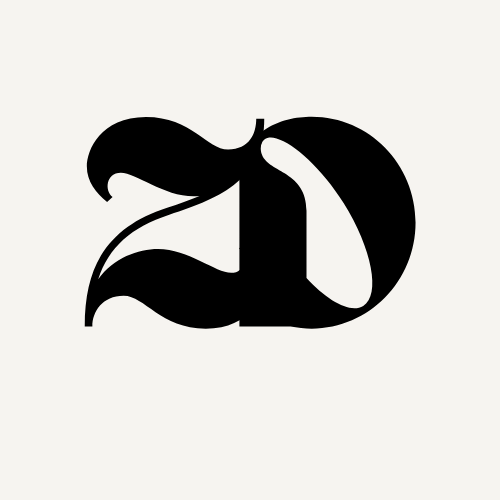
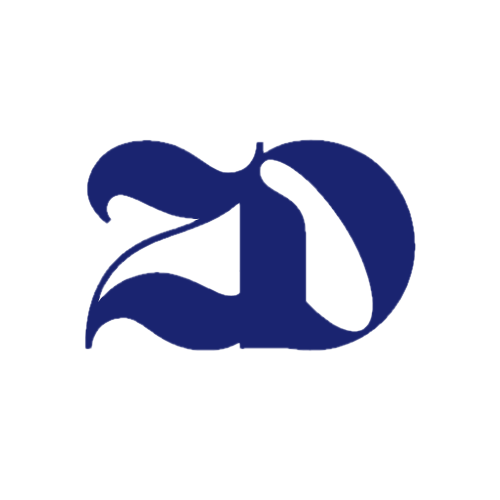
education page changes

Changed region(s): [[0.15, 0.21, 0.84, 0.72]]

diff --git a/src/pages/Education.jsx b/src/pages/Education.jsx
@@ -2,23 +2,25 @@ import React from "react";
 
 const education = [
    {
-    date: "January 2026 - May 2027",
+    date: "Jan 2026 - May 2027",
     title: "Master's in Business Administration",
     company: "Texas A&M - Corpus Christi",
     details: "Concentration in Business Analytics"
   }, 
   {
-    date: "September 2025 - December 2025",
+    date: "Sept 2025 - Dec 2025",
     title: "RiseUp",
     company: "ServiceNow",
+    details: "Agile project delivery and workflow implementation"
   },
   {
-    date: "October 2024 - April 2025",
+    date: "Oct 2024 - Apr 2025",
     title: "Path2Tech: Full Stack Developer Program",
     company: "NPower",
+    details: "Team-based app development using Agile planning and collaboration"
   },
   {
-    date: "August 2018 - May 2022",
+    date: "Aug 2018 - May 2022",
     title: "Bachelor's of Science in Cognitive Science",
     company: "The University of Texas at Dallas",
     details: "Concentration in Psychology/Human-Computer Interactions"
@@ -53,58 +55,126 @@ const certifications = [
   },
 ]
 
+// export default function ExperienceTimeline() {
+//   return (
+//     <div className="education-container h-auto px-4 md:px-12 lg:px-16 py-10 max-w-5xl mx-auto pb-16">
+//       <h1 className="page-title text-5xl font-bold mb-12 font-roca text-center mt-36">Education & Professional Training</h1>
+
+//       <div className="space-y-8 pb-16">
+//         {education.map((edu, index) => (
+//           <div key={index} className="relative flex flex-col sm:flex-row items-start">
+            
+//             {/* Date */}
+//             <div className="relative w-full sm:w-40 flex sm:justify-end mb-2 sm:mb-0 pl-1 sm:pl-0">
+//               <span className="date bg-midnight text-whitesmoke px-3 py-1 sm:text-sm rounded whitespace-nowrap font-decalotype tracking-wider">
+//                 {edu.date}
+//               </span>
+//             </div>
+
+//             {/* Vertical Line */}
+//             <div className="line absolute hidden sm:block sm:left-44 top-0 h-full border-l-2 "></div>
+
+//             {/* Education Content */}
+//             <div className="flex-1 sm:pl-10">
+//               <h3 className="title text-lg sm:text-xl font-semibold font-decalotype tracking-wide">{edu.title}</h3>
+//               <p className="company text-sm sm:text-base font-medium mb-3 font-decalotype tracking-wide">{edu.company}</p>
+//               <p className="detail text-sm sm:text-base font-medium mb-3 font-decalotype tracking-wide">{edu.details}</p>
+             
+//             </div>
+//           </div>
+//         ))}
+//       </div>
+
+//       <h1 className="page-title text-5xl font-bold mb-12 font-roca text-center ">Certifications</h1>
+//       <div className="space-y-8">
+//         {certifications.map((cert, index) => (
+//           <div key={index} className="relative flex flex-col sm:flex-row items-start">
+
+//             {/* Date */}
+//             <div className="relative w-full sm:w-40 flex sm:justify-end mb-2 sm:mb-0 pl-1 sm:pl-0">
+//               <span className="date bg-midnight text-whitesmoke px-3 py-1 text-xs sm:text-sm rounded whitespace-nowrap font-decalotype tracking-wide">
+//                 {cert.date}
+//               </span>
+//             </div>
+
+//             {/* Vertical Line */}
+//             <div className="line absolute hidden sm:block sm:left-44 top-0 h-full border-l-2 "></div>
+
+//             {/* Certifications Content */}
+//             <div className="flex-1 ml-25 sm:pl-10">
+//               <h3 className="title text-lg sm:text-xl font-semibold font-decalotype tracking-wide">{cert.title}</h3>
+//               <p className="company text-sm sm:text-base font-medium font-decalotype tracking-wide">{cert.company}</p>
+//             </div>
+//           </div>
+//         ))}
+//       </div>
+//     </div>
+//   );
+// }
+
 export default function ExperienceTimeline() {
   return (
     <div className="education-container h-auto px-4 md:px-12 lg:px-16 py-10 max-w-5xl mx-auto pb-16">
-      <h1 className="page-title text-5xl font-bold mb-12 font-roca text-center mt-36">Education</h1>
+//       <h1 className="page-title text-5xl font-bold mb-12 font-roca text-center mt-36">Education & Professional Training</h1>
 
-      <div className="space-y-16 pb-20">
-        {education.map((edu, index) => (
-          <div key={index} className="relative flex flex-col sm:flex-row items-start">
-            
-            {/* Date */}
-            <div className="relative w-full sm:w-40 flex sm:justify-end mb-2 sm:mb-0 pl-1 sm:pl-0">
-              <span className="date bg-midnight text-whitesmoke px-3 py-1 sm:text-sm rounded whitespace-nowrap font-decalotype tracking-wider">
-                {edu.date}
-              </span>
+      {/* Timeline Wrapper */}
+      <div className="relative">
+
+        {/* Vertical Line (Desktop only) */}
+        <div className="hidden sm:block absolute left-1/3 top-0 h-full border-l-2 border-gray-300"></div>
+
+        {/* Education Entries */}
+        <div className="space-y-10">
+          {education.map((edu, index) => (
+            <div key={index} className="flex flex-col sm:flex-row">
+
+              {/* Date */}
+              <div className="sm:w-1/3 sm:pr-8 text-left mb-2 sm:mb-0">
+                <span className="date inline-block bg-midnight text-whitesmoke px-3 py-1 rounded whitespace-nowrap font-decalotype">
+                  {edu.date}
+                </span>
+              </div>
+
+              {/* Content */}
+              <div className="sm:w-2/3 sm:pl-8">
+                <h3 className="title font-semibold font-decalotype">{edu.title}</h3>
+                <p className="company font-medium font-decalotype">{edu.company}</p>
+                <p className="detail font-medium font-decalotype">{edu.details}</p>
+              </div>
             </div>
-
-            {/* Vertical Line */}
-            <div className="line absolute hidden sm:block sm:left-44 top-0 h-full border-l-2 "></div>
-
-            {/* Education Content */}
-            <div className="flex-1 sm:pl-10">
-              <h3 className="title text-lg sm:text-xl font-semibold font-decalotype tracking-wide">{edu.title}</h3>
-              <p className="company text-sm sm:text-base font-medium mb-3 font-decalotype tracking-wide">{edu.company}</p>
-              <p className="detail text-sm sm:text-base font-medium mb-3 font-decalotype tracking-wide">{edu.details}</p>
-             
-            </div>
-          </div>
-        ))}
+          ))}
+        </div>
       </div>
 
-      <h1 className="page-title text-5xl font-bold mb-12 font-roca text-center ">certifications</h1>
-      <div className="space-y-16">
-        {certifications.map((cert, index) => (
-          <div key={index} className="relative flex flex-col sm:flex-row items-start">
+      {/* Certifications */}
+      <h1 className="page-title text-5xl font-bold mt-24 mb-16 font-roca text-center">
+        Certifications
+      </h1>
 
-            {/* Date */}
-            <div className="relative w-full sm:w-40 flex sm:justify-end mb-2 sm:mb-0 pl-1 sm:pl-0">
-              <span className="date bg-midnight text-whitesmoke px-3 py-1 text-xs sm:text-sm rounded whitespace-nowrap font-decalotype tracking-wide">
-                {cert.date}
-              </span>
+      <div className="relative">
+
+        {/* Vertical Line */}
+        <div className="hidden sm:block absolute left-1/3 top-0 h-full border-l-2 border-gray-300"></div>
+
+        <div className="space-y-10">
+          {certifications.map((cert, index) => (
+            <div key={index} className="flex flex-col sm:flex-row">
+
+              {/* Date */}
+              <div className="sm:w-1/3 sm:pr-8 text-right mb-2 sm:mb-0">
+                <span className="date inline-block bg-midnight text-whitesmoke px-3 py-1 rounded font-decalotype">
+                  {cert.date}
+                </span>
+              </div>
+
+              {/* Content */}
+              <div className="sm:w-2/3 sm:pl-8">
+                <h3 className="title font-semibold font-decalotype">{cert.title}</h3>
+                <p className="company font-medium font-decalotype">{cert.company}</p>
+              </div>
             </div>
-
-            {/* Vertical Line */}
-            <div className="line absolute hidden sm:block sm:left-44 top-0 h-full border-l-2 "></div>
-
-            {/* Certifications Content */}
-            <div className="flex-1 ml-25 sm:pl-10">
-              <h3 className="title text-lg sm:text-xl font-semibold font-decalotype tracking-wide">{cert.title}</h3>
-              <p className="company text-sm sm:text-base font-medium font-decalotype tracking-wide">{cert.company}</p>
-            </div>
-          </div>
-        ))}
+          ))}
+        </div>
       </div>
     </div>
   );

diff --git a/src/pages/Projects.jsx b/src/pages/Projects.jsx
@@ -8,26 +8,27 @@ import { FaGithub } from "react-icons/fa6";
 // You can also add more properties if you want to display more information about your projects.
 const myProjects = [
   {
-    title: 'Project 1',
+    title: 'Knot So Serious',
     description: 'Description of project 1',
-    repositoryLink: 'Link to the GitHub repository',
+    repositoryLink: 'https://github.com/AayeshaIslam/knot_so_serious',
   },
-  {
-    title: 'Project 2',
-    description: 'Description of project 2',
-    repositoryLink: 'Link to the GitHub repository',
-  },
-  {
-    title: 'Project 3',
-    description: 'Description of project 3',
-    repositoryLink: 'Link to the GitHub repository',
-  },
+  // {
+  //   title: 'Project 2',
+  //   description: 'Description of project 2',
+  //   repositoryLink: 'Link to the GitHub repository',
+  // },
+  // {
+  //   title: 'Project 3',
+  //   description: 'Description of project 3',
+  //   repositoryLink: 'Link to the GitHub repository',
+  // },
 ];
 
 const Projects = () => {
   return (
     <main className="projects-container py-16 px-4 md:px-12 lg:px-16 max-w-7xl mx-auto">
-      <h1 className="title text-5xl font-bold font-roca text-center mt-32 mb-10">Projects</h1>
+      <h1 className="title text-5xl font-bold font-roca text-center mt-32 mb-5">Projects</h1>
+      <h2 className="text-xl mb-10 text-center"> Selected project work showcasing my approach to planning, coordination, and delivery.</h2>
       <div className="grid grid-cols-1 sm:grid-cols-2 lg:grid-cols-3 gap-8">
         {myProjects.map((project) => (
           <section

diff --git a/src/components/NavBar.jsx b/src/components/NavBar.jsx
@@ -3,6 +3,7 @@ import { NavLink } from "react-router-dom"
 import { GiHamburgerMenu } from "react-icons/gi";
 import { motion, AnimatePresence } from "framer-motion";
 import Toggle from '../Toggle'
+import Icon from '../assets/zd.png'
 
 const sidebarVariants = {
   open: (customHeight) => ({
@@ -84,7 +85,7 @@ const NavBar = () => {
         <NavLink to="/experience" className={({ isActive }) => isActive ? "active" : ""}>Experience</NavLink>
         <NavLink to="/projects" className={({ isActive }) => isActive ? "active" : ""}>Projects</NavLink>
         <a onClick={() => openInNewTab("https://drive.google.com/file/d/1xJbom8gRsKgCb-3SwmjAEwX4smHXuByK/view?usp=drive_link")} download="Z.Desai-Resume.pdf">Resume</a>
-        <div className="theme-toggle">
+        <div className="theme-toggle ml-2">
           <Toggle toggled={toggled} onClick={handleClick}/>
         </div>
       </section>

diff --git a/src/pages/About.jsx b/src/pages/About.jsx
@@ -16,7 +16,7 @@ const About = () => {
       <br />
       <section className='about-content-container'>
         <section className='image-container'>
-          <img className='grad-pic' src={Image} alt="graduation picture" />
+          <img className='pic' src={Image} alt="picture" />
         </section>
         <section className='description-container font-decalotype tracking-wide pb-7'>
           <h2 className='text-xl font-medium font-decalotype tracking-wide'>Hi there! I'm {firstName}, a {jobTitle} based in {jobLocation}.</h2>

diff --git a/index.html b/index.html
@@ -2,9 +2,9 @@
 <html lang="en">
   <head>
     <meta charset="UTF-8" />
-    <link rel="icon" type="image/svg+xml" href="zd.png" />
     <meta name="viewport" content="width=device-width, initial-scale=1.0" />
-    <title>Zinal Desai - Portfolio</title>
+    <title>Zinal Desai</title>
+     <link rel="icon" href="./src/assets/zd.png" type="image/png" />
   </head>
   <body>
     <div id="root"></div>

diff --git a/src/components/Typewriter.jsx b/src/components/Typewriter.jsx
@@ -12,7 +12,7 @@ function TypewriterEffect() {
                         delay: 75,
                         strings: [
                             "I\'m a Project Manager",
-                            "I\'m an Event Coordinator",
+                            // "I\'m an Event Coordinator",
                         ]
                     }}>
                 </Typewriter>

diff --git a/src/pages/Home.jsx b/src/pages/Home.jsx
@@ -26,6 +26,7 @@ const Home = () => {
         <IoIosMail size={35} />
         </a>
         </div>
+        <p className="mt-6">Thanks for stopping by — enjoy exploring!</p>
       </section>
       <footer className="text-center">
       <p className="tracking-wide italic font-decalotype">{personalQuote}</p>

diff --git a/src/styles/about.scss b/src/styles/about.scss
@@ -65,7 +65,7 @@
         width: 50%;
       }
 
-      .grad-pic {
+      .pic {
         width: 100%;
         height: auto;
         max-height: 500px;
